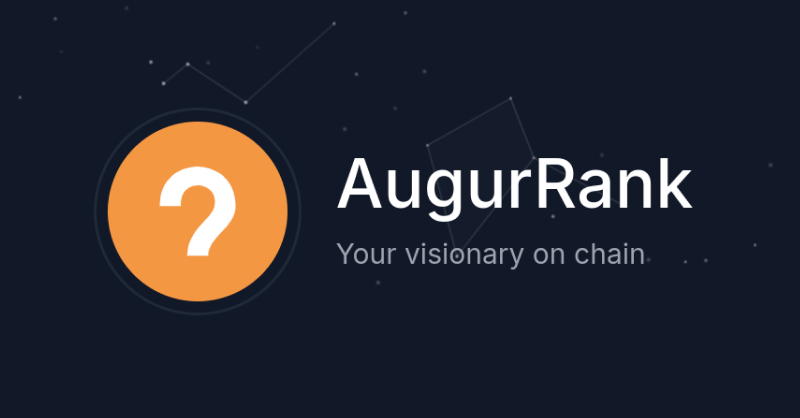
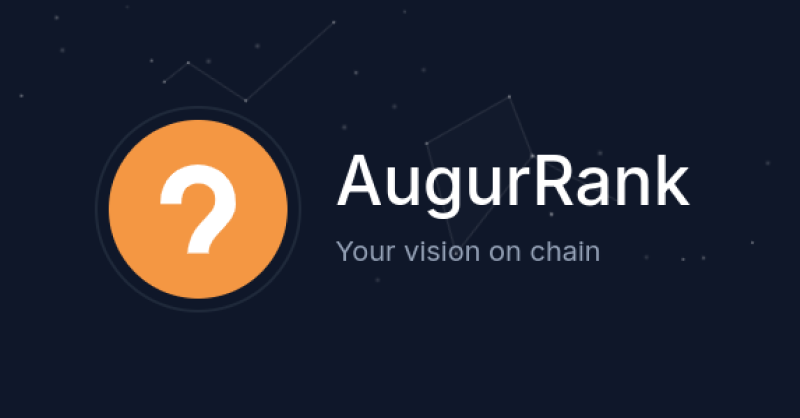
Add the blog link

diff --git a/packages/web/src/components/LandingPre.js b/packages/web/src/components/LandingPre.js
@@ -1,6 +1,6 @@
 import Link from 'next/link';
 import Image from 'next-image-export-optimizer';
-import { CheckIcon, TrophyIcon, EnvelopeIcon } from '@heroicons/react/24/solid';
+import { CheckIcon, TrophyIcon, EnvelopeIcon, NewspaperIcon } from '@heroicons/react/24/solid';
 
 import { StarField } from '@/components/StarField';
 import { JoinNewsletter } from '@/components/JoinNewsletter';
@@ -34,43 +34,43 @@ function GithubIcon(props) {
 function MiddleOne() {
   return (
     <div className="px-7 py-10">
-      <p className="text-base text-gray-300">Challenge yourself to envision the future, keep score on the chain, and brag about it forever.</p>
+      <p className="text-base text-slate-300">Challenge yourself to envision the future, store your predictions on the chain, and brag about your accuracy forever.</p>
       <ul className="mt-5 space-y-2.5">
         <li className="flex">
           <CheckIcon className="size-5 text-green-500" />
-          <p className="ml-2.5 text-base text-gray-300">Permanent</p>
+          <p className="ml-2.5 text-base text-slate-300">Permanent</p>
         </li>
         <li className="flex">
           <CheckIcon className="size-5 text-green-500" />
-          <p className="ml-2.5 text-base text-gray-300">Verifiable</p>
+          <p className="ml-2.5 text-base text-slate-300">Verifiable</p>
         </li>
         <li className="flex">
           <CheckIcon className="size-5 text-green-500" />
-          <p className="ml-2.5 text-base text-gray-300">Community driven</p>
+          <p className="ml-2.5 text-base text-slate-300">Community driven</p>
         </li>
         <li className="flex">
           <CheckIcon className="size-5 text-green-500" />
-          <p className="ml-2.5 text-base text-gray-300">Fun</p>
+          <p className="ml-2.5 text-base text-slate-300">Fun</p>
         </li>
       </ul>
-      <p className="mt-7 text-base text-gray-300">Concrete evidence that you were right! Nothing in the world comes close!</p>
-      <p className="mt-7 text-base text-gray-300">Powered by Stacks - the Bitcoin L2</p>
+      <p className="mt-7 text-base text-slate-300">Concrete proof that you were right forever!</p>
+      <p className="mt-7 text-base text-slate-300">Powered by Stacks - the Bitcoin L2</p>
       <ul className="mt-5 space-y-2.5">
         <li className="flex">
           <CheckIcon className="size-5 text-green-500" />
-          <p className="ml-2.5 text-base text-gray-300">Secure</p>
+          <p className="ml-2.5 text-base text-slate-300">Secure</p>
         </li>
         <li className="flex">
           <CheckIcon className="size-5 text-green-500" />
-          <p className="ml-2.5 text-base text-gray-300">Decentralized</p>
+          <p className="ml-2.5 text-base text-slate-300">Decentralized</p>
         </li>
         <li className="flex">
           <CheckIcon className="size-5 text-green-500" />
-          <p className="ml-2.5 text-base text-gray-300">Scalable</p>
+          <p className="ml-2.5 text-base text-slate-300">Scalable</p>
         </li>
         <li className="flex">
           <CheckIcon className="size-5 text-green-500" />
-          <p className="ml-2.5 text-base text-gray-300">Affordable</p>
+          <p className="ml-2.5 text-base text-slate-300">Affordable</p>
         </li>
       </ul>
     </div>
@@ -84,11 +84,11 @@ function MiddleTwo() {
 function MiddleThree() {
   return (
     <div className="px-7 py-10">
-      <h2 className="text-xl font-medium text-gray-100">How to visionary?</h2>
+      <h2 className="text-xl font-medium text-slate-100">How to visionary?</h2>
       <ol className="mt-5 list-inside list-decimal space-y-2.5">
-        <li className="text-base text-gray-400">Predict the future</li>
-        <li className="text-base text-gray-400">Store it on the chain</li>
-        <li className="text-base text-gray-400">
+        <li className="text-base text-slate-400">Predict the future</li>
+        <li className="text-base text-slate-400">Store it on the chain</li>
+        <li className="text-base text-slate-400">
           <span className="relative">
             Rank to the top!
             <TrophyIcon className="absolute -top-0.5 left-full ml-1 size-6 text-yellow-400" />
@@ -102,8 +102,8 @@ function MiddleThree() {
 function MiddleFour() {
   return (
     <div className="px-7 py-10">
-      <h2 className="text-center text-xl font-medium text-gray-100">A new prediction game</h2>
-      <p className="mt-2.5 text-center text-sm text-gray-400">Powered by Stacks</p>
+      <h2 className="text-center text-xl font-medium text-slate-100">A new prediction game</h2>
+      <p className="mt-2.5 text-center text-sm text-slate-400">Powered by Stacks</p>
     </div>
   );
 }
@@ -114,57 +114,60 @@ export function LandingPre() {
       <StarField className="-left-64 w-[55.0625rem] rotate-12 sm:-left-20" />
       <main className="relative p-24 px-6 py-20">
         <div className="flex flex-col items-center justify-start sm:flex-row sm:justify-center">
-          <div className="rounded-full border-2 border-gray-800 p-2">
+          <div className="rounded-full border-2 border-slate-800 p-2">
             <Image className="size-32" src={Logo} alt="" />
           </div>
           <div className="mt-6 sm:ml-6 sm:mt-0">
             <h1 className="text-center text-5xl font-medium text-white sm:text-left">AugurRank</h1>
-            <p className="mt-3 text-center text-xl text-gray-400 sm:text-left">Your visionary on chain</p>
+            <p className="mt-3 text-center text-xl text-slate-400 sm:text-left">Your vision on chain</p>
           </div>
         </div>
-        <div className="mt-10 rounded-xl bg-gray-800/75">
+        <div className="mt-10 rounded-xl bg-slate-800/75">
           <div className="sm:hidden">
             <MiddleOne />
-            <div className="h-px bg-gray-700" />
+            <div className="h-px bg-slate-700" />
             <MiddleTwo />
-            <div className="h-px bg-gray-700" />
+            <div className="h-px bg-slate-700" />
             <MiddleThree />
-            <div className="h-px bg-gray-700" />
+            <div className="h-px bg-slate-700" />
             <MiddleFour />
           </div>
           <div className="hidden sm:flex sm:items-stretch sm:justify-stretch">
             <div className="flex-1">
               <MiddleOne />
             </div>
-            <div className="w-px bg-gray-700" />
+            <div className="w-px bg-slate-700" />
             <div className="flex-1">
               <MiddleTwo />
-              <div className="h-px bg-gray-700" />
+              <div className="h-px bg-slate-700" />
               <MiddleThree />
-              <div className="h-px bg-gray-700" />
+              <div className="h-px bg-slate-700" />
               <MiddleFour />
             </div>
           </div>
         </div>
         <div className="mt-10 flex justify-center space-x-4">
-          <Link className="group flex size-10 items-center justify-center rounded-full bg-gray-800" href="https://x.com/AugurRank" target="_blank" rel="noreferrer">
+          <Link className="group flex size-10 items-center justify-center rounded-full bg-slate-800" href="https://x.com/AugurRank" target="_blank" rel="noreferrer">
             <TwitterIcon className="size-5 fill-blue-400 group-hover:fill-blue-300" />
           </Link>
-          <Link className="group flex size-10 items-center justify-center rounded-full bg-gray-800" href="https://www.threads.net/@augurrank" target="_blank" rel="noreferrer">
+          <Link className="group flex size-10 items-center justify-center rounded-full bg-slate-800" href="https://www.threads.net/@augurrank" target="_blank" rel="noreferrer">
             <ThreadsIcon className="size-[1.125rem] fill-pink-600 group-hover:fill-pink-500" />
           </Link>
-          <Link className="group flex size-10 items-center justify-center rounded-full bg-gray-800" href="https://github.com/stxapps/augurrank-smart-contracts" target="_blank" rel="noreferrer">
-            <GithubIcon className="size-5 fill-gray-400 group-hover:fill-gray-300" />
+          <Link className="group flex size-10 items-center justify-center rounded-full bg-slate-800" href="https://github.com/stxapps/augurrank-smart-contracts" target="_blank" rel="noreferrer">
+            <GithubIcon className="size-5 fill-slate-400 group-hover:fill-slate-300" />
           </Link>
-          <Link className="group flex size-10 items-center justify-center rounded-full bg-gray-800" href="&#109;&#097;&#105;&#108;&#116;&#111;:&#115;&#117;&#112;&#112;&#111;&#114;&#116;&#064;&#097;&#117;&#103;&#117;&#114;&#114;&#097;&#110;&#107;&#046;&#099;&#111;&#109;">
+          <Link className="group flex size-10 items-center justify-center rounded-full bg-slate-800" href="&#109;&#097;&#105;&#108;&#116;&#111;:&#115;&#117;&#112;&#112;&#111;&#114;&#116;&#064;&#097;&#117;&#103;&#117;&#114;&#114;&#097;&#110;&#107;&#046;&#099;&#111;&#109;">
             <EnvelopeIcon className="size-5 text-green-500 group-hover:fill-green-400" />
+          </Link>
+          <Link className="group flex size-10 items-center justify-center rounded-full bg-slate-800" href="https://blog.augurrank.com" target="_blank" rel="noreferrer">
+            <NewspaperIcon className="size-5 fill-orange-400 group-hover:fill-orange-300" />
           </Link>
         </div>
         <div className="mt-20 flex flex-col items-center">
-          <p className="text-sm text-gray-500">Brought to you by</p>
+          <p className="text-sm text-slate-500">Brought to you by</p>
           <Link className="group mt-2.5 flex items-center justify-start" href="https://www.stxapps.com" target="_blank" rel="noreferrer">
             <Image className="h-8 w-auto" src={LogoStxApps} alt="STX Apps" placeholder="empty" />
-            <div className="ml-2 text-2xl font-extrabold text-gray-100 group-hover:text-white">STX Apps</div>
+            <div className="ml-2 text-2xl font-extrabold text-slate-100 group-hover:text-white">STX Apps</div>
           </Link>
         </div>
       </main>

diff --git a/packages/web/src/components/JoinNewsletter.js b/packages/web/src/components/JoinNewsletter.js
@@ -68,9 +68,9 @@ export function JoinNewsletter() {
 
   return (
     <div className="px-7 pt-10">
-      <p className="text-xl font-medium text-gray-100">Stay up to date</p>
-      <p className="mt-2.5 text-sm text-gray-400">Get notified when we have something new, and unsubscribe at any time.</p>
-      <input className="mt-5 block w-full rounded-full border border-gray-700 bg-gray-700 px-4 py-1.5 text-sm text-gray-200 placeholder:text-gray-400 focus:outline focus:outline-orange-400" onChange={onEmailInputChange} type="email" autoComplete="email" placeholder="Email address" value={state.email} autoCapitalize="none" disabled={[STATUS_JOINING, STATUS_COMMIT].includes(state.status)} />
+      <p className="text-xl font-medium text-slate-100">Stay up to date</p>
+      <p className="mt-2.5 text-sm text-slate-400">Get notified when we have something new, and unsubscribe at any time.</p>
+      <input className="mt-5 block w-full rounded-full border border-slate-700 bg-slate-700 px-4 py-1.5 text-sm text-slate-200 placeholder:text-slate-400 focus:outline focus:outline-orange-400" onChange={onEmailInputChange} type="email" autoComplete="email" placeholder="Email address" value={state.email} autoCapitalize="none" disabled={[STATUS_JOINING, STATUS_COMMIT].includes(state.status)} />
       <div className="min-h-[5.25rem] pb-1.5 pt-3">
         {[STATUS_INIT, STATUS_INVALID, STATUS_ROLLBACK].includes(state.status) && <button onClick={onJoinBtnClick} className="rounded-full bg-orange-400 px-4 py-1.5 text-sm font-semibold text-white" disabled={[STATUS_JOINING, STATUS_COMMIT].includes(state.status)}>Join</button>}
         {[STATUS_INVALID, STATUS_ROLLBACK].includes(state.status) && <p className="pt-1.5 text-sm text-red-500">{getMsg(state.status)}</p>}
@@ -79,7 +79,7 @@ export function JoinNewsletter() {
           <div className="ball-clip-rotate-blk">
             <div />
           </div>
-          <p className="ml-2 text-sm text-gray-300">{getMsg(state.status)}</p>
+          <p className="ml-2 text-sm text-slate-300">{getMsg(state.status)}</p>
         </div>}
         {[STATUS_COMMIT].includes(state.status) && <p className="mt-1 text-sm font-medium text-green-500">{getMsg(state.status)}</p>}
       </div>

diff --git a/packages/web/src/app/not-found.js b/packages/web/src/app/not-found.js
@@ -5,7 +5,7 @@ export default function NotFound() {
     <div className="mx-auto flex h-screen max-w-2xl flex-col items-center justify-center px-4 py-16 text-center lg:pl-8 lg:pr-0 xl:px-16">
       <p className="text-sm font-medium text-white">404</p>
       <h1 className="mt-3 text-3xl tracking-tight text-white">Page not found</h1>
-      <p className="mt-2.5 text-sm text-gray-400">Sorry, we couldn’t find the page you’re looking for.</p>
+      <p className="mt-2.5 text-sm text-slate-400">Sorry, we couldn’t find the page you’re looking for.</p>
       <Link href="/" className="mt-8 text-sm font-medium text-white">Go back home</Link>
     </div>
   );

diff --git a/packages/web/src/app/page.js b/packages/web/src/app/page.js
@@ -1,8 +1,8 @@
-import { LandingPre } from '@/components/LandingPre';
 import { DOMAIN_NAME } from '@/types/const';
+import { LandingPre } from '@/components/LandingPre';
 
-const title = 'AugurRank - Your visionary on chain';
-const description = 'Challenge yourself to envision the future, keep score on the chain, and brag about it forever.';
+const title = 'AugurRank - Your vision on chain';
+const description = 'Challenge yourself to envision the future, store your predictions on the chain, and brag about your accuracy forever.';
 export const metadata = {
   title,
   description,

diff --git a/packages/web/src/app/layout.js b/packages/web/src/app/layout.js
@@ -18,7 +18,7 @@ export const viewport = {
 export default function RootLayout({ children }) {
   return (
     <html lang="en" className={clsx('h-full antialiased', inter.variable)} suppressHydrationWarning>
-      <body className="min-h-full bg-gray-900">
+      <body className="min-h-full bg-slate-900">
         <Providers>
           {children}
         </Providers>
